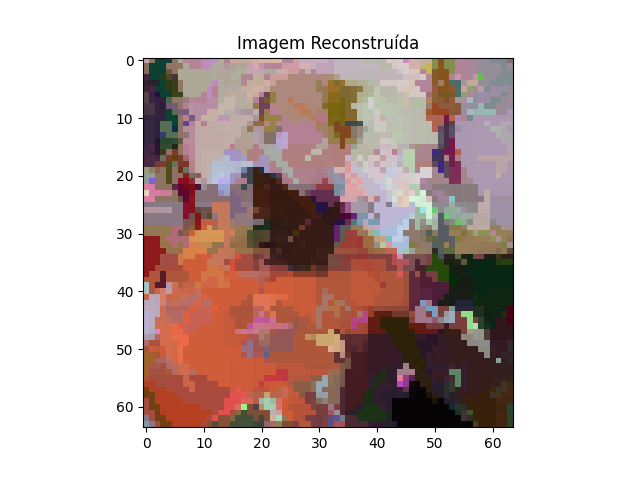
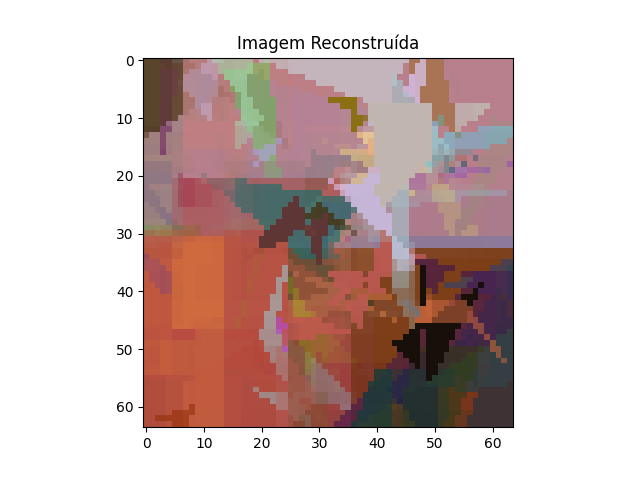
changed to flask API

diff --git a/generator.py b/generator.py
@@ -6,16 +6,8 @@ import random
 from PIL import ImageDraw
 from PIL import Image
 
-POPULATION_SIZE = 100
-NUM_GENERATIONS = 2001
-MUTATION_RATE = 0.1
-LEN = 64
-WID = 64
-IMAGE = Image.open("original.png")
-
-
-def create_population():
-    population = [create_random_image() for _ in range(POPULATION_SIZE)]
+def create_population(pop_size, width, height):
+    population = [create_random_image(width, height) for _ in range(pop_size)]
     return population
 
 
@@ -23,22 +15,22 @@ def rand_color():
     return "#" + ''.join([random.choice('0123456789ABCDEF') for _ in range(6)])
 
 
-def create_random_image():
+def create_random_image(width, height):
     """
     cria uma imagem com uma cor de fundo aleatória e adiciona alguns polígonos coloridos nela
     :return: PIL Image
     """
     iterations = random.randint(3, 6)
 
-    region = (LEN + WID) // 8
+    region = (width + height) // 8
 
-    img = Image.new("RGBA", (LEN, WID), rand_color())
+    img = Image.new("RGBA", (width, height), rand_color())
 
     for i in range(iterations):
         num_points = random.randint(3, 6)
 
-        region_x = random.randint(0, LEN)
-        region_y = random.randint(0, WID)
+        region_x = random.randint(0, width)
+        region_y = random.randint(0, height)
 
         xy = []
         for j in range(num_points):
@@ -51,17 +43,17 @@ def create_random_image():
     return img
 
 
-def get_fitness(individual):
+def get_fitness(individual, image):
     """Calcula a fitness baseado na diferença entre as cores de cada píxel da imagem.
     Calculo é feito usando Delta E, que traz uma precisão maior do que só o valor rgb puro
     Já que o delta E traz um valor de diferença baseado na percepção do olho humano e não dos valores da cor
     Ex: laranja e marrom são duas cores muito próximas em questão de valores mas muito diferentes ao olhar"""
-    fitness = np.mean(colour.difference.delta_e.delta_E_CIE1976(IMAGE, np.array(individual)))
+    fitness = np.mean(colour.difference.delta_e.delta_E_CIE1976(image, np.array(individual)))
     return fitness
 
 
 #Seleção por torneio
-def select_parents(population):
+def select_parents(population, image):
     indices = np.random.choice(len(population), 6)
     random_subset = [population[i] for i in indices]
 
@@ -70,22 +62,22 @@ def select_parents(population):
     for i in random_subset:
         if winner is None:
             winner = i
-        elif get_fitness(i) < get_fitness(winner):
+        elif get_fitness(i, image) < get_fitness(winner, image):
             winner = i
 
     return winner
 
-def crossover(parent1, parent2):
+def crossover(parent1, parent2, image, mutation_rate, width, height):
     """Faz um crossover pegando um número alpha aleatório e fundindo as duas imagens
     O alpha é aplicado como transparência das duas imagens"""
     alpha = random.random()
-    child = mutate(Image.blend(parent1, parent2, alpha))
-    fitness = get_fitness(child)
-    if fitness == min(get_fitness(parent1), get_fitness(parent2), fitness):
+    child = mutate(Image.blend(parent1, parent2, alpha), mutation_rate, width, height)
+    fitness = get_fitness(child, image)
+    if fitness == min(get_fitness(parent1, image), get_fitness(parent2, image), fitness):
         return child
     return None
 
-def crossover_2(parent1, parent2, horizontal_prob):
+def crossover_2(parent1, parent2, horizontal_prob, image, mutation_rate, width, height):
     """
 
     :param parent1: pai 1
@@ -98,23 +90,21 @@ def crossover_2(parent1, parent2, horizontal_prob):
 
     #os cortes criam um novo array marcado com 1s e 0s, sendo a parte que estiver marcada com 1s a parte que será usada
     #é uma mascara para saber qual parte da imagem vai ser usada
-    #corte horizontal
     if rand <= horizontal_prob:
 
-        split_point = random.randint(1, WID)
+        split_point = random.randint(1, width)
 
         first = np.vstack((
-            np.ones((split_point, LEN)),
-            np.zeros((WID - split_point, LEN))
+            np.ones((split_point, height)),
+            np.zeros((width - split_point, height))
         ))
 
-    #corte vertical
     else:
-        split_point = random.randint(1, LEN)
+        split_point = random.randint(1, height)
 
         first = np.hstack((
-            np.ones((WID, split_point)),
-            np.zeros((WID, LEN - split_point))
+            np.ones((width, split_point)),
+            np.zeros((width, height - split_point))
         ))
 
     #indica qual parte do outro pai vai ser usada, sendo todas as partes não usadas do pai 1
@@ -131,28 +121,28 @@ def crossover_2(parent1, parent2, horizontal_prob):
 
     child_array = np.add(half_chromo_1, half_chromo_2)
 
-    child = mutate(Image.fromarray(child_array.astype(np.uint8)))
+    child = mutate(Image.fromarray(child_array.astype(np.uint8)), mutation_rate, width, height)
 
-    fitness = get_fitness(child)
+    fitness = get_fitness(child, image)
     #joga fora o filho se ele não for mais apto que o pai. acaba convergindo a maior parte dos filhos
     #mas sem isso a melhoria entre gerações fica nula ou pode até reverter
     #taxa de mutação alta cuida do problema da convergência
-    if fitness == min(get_fitness(parent1), get_fitness(parent2), fitness):
+    if fitness == min(get_fitness(parent1, image), get_fitness(parent2, image), fitness):
         return child
 
     return None
 
 
-def mutate(img):
+def mutate(img, mutation_rate, width, height):
     chance = random.random()
-    if chance > MUTATION_RATE:
+    if chance > mutation_rate:
         return img
     iterations = random.randint(1, 1)
-    region = random.randint(1, (LEN + WID) // 4)
+    region = random.randint(1, (width + height) // 4)
     for i in range(iterations):
         num_points = random.randint(3, 6)
-        region_x = random.randint(0, LEN)
-        region_y = random.randint(0, WID)
+        region_x = random.randint(0, width)
+        region_y = random.randint(0, height)
 
         xy = []
         for j in range(num_points):
@@ -163,12 +153,16 @@ def mutate(img):
         img1.polygon(xy, fill=rand_color())
     return img
 
-
-def genetic_algorithm():
+def genetic_algorithm(pop_size, num_generations, mutation_rate, image):
+    if image.mode == 'RGB':
+        image = image.convert('RGBA')
+    
+    width, height = image.size
+    
     #gerar população
-    population = create_population()
+    population = create_population(pop_size, width, height)
 
-    for i in range(NUM_GENERATIONS):
+    for i in range(num_generations):
         new_population = []
 
         while len(new_population) < len(population):
@@ -179,19 +173,19 @@ def genetic_algorithm():
                 child = None
 
                 while child is None:
-                    parent_one = select_parents(population)
-                    parent_two = select_parents(population)
+                    parent_one = select_parents(population, image)
+                    parent_two = select_parents(population, image)
 
-                    child = crossover(parent_one, parent_two)
+                    child = crossover(parent_one, parent_two, image, mutation_rate, width, height)
 
             else:
                 child = None
 
                 while child is None:
-                    parent_one = select_parents(population)
-                    parent_two = select_parents(population)
+                    parent_one = select_parents(population, image)
+                    parent_two = select_parents(population, image)
 
-                    child = crossover_2(parent_one, parent_two, 0.5)
+                    child = crossover_2(parent_one, parent_two, 0.5, image, mutation_rate, width, height)
 
 
             new_population.append(child)
@@ -199,20 +193,24 @@ def genetic_algorithm():
         population = new_population
 
         #salva imagem a cada 100 gerações ou se for a última
-        if i % 50 == 0 or i == NUM_GENERATIONS - 1:
-            population.sort(key=lambda ind: get_fitness(ind))
+        if i % 50 == 0 or i == num_generations - 1:
+            population.sort(key=lambda ind: get_fitness(ind, image))
             fittest = population[0]
-            print("Most fit individual in epoch " + str(i) +
-                " has fitness: " + str(get_fitness(fittest)))
+            """ print("Most fit individual in epoch " + str(i) +
+                " has fitness: " + str(get_fitness(fittest, image))) """
 
-            fittest.save("generatedImages/fittest_" + str(i) + ".png")
+            """ fittest.save("generatedImages/fittest_" + str(i) + ".png") """
 
-    population.sort(key=lambda ind: get_fitness(ind))
+    population.sort(key=lambda ind: get_fitness(ind, image))
     fittest = population[0]
     return fittest
 
 if __name__ == "__main__":
-    reconstructed_image = genetic_algorithm()
+    pop_size = 100
+    num_generations = 100
+    mutation_rate = 0.1
+    image = Image.open("original.png")
+    reconstructed_image = genetic_algorithm(pop_size, num_generations, mutation_rate, image)
     plt.imshow(reconstructed_image)
     plt.title("Imagem Reconstruída")
     plt.savefig('reconstructed_image.png')

diff --git a/api.py b/api.py
@@ -1,0 +1,41 @@
+from flask import Flask, request, jsonify, send_file
+import os
+from PIL import Image
+import io
+import generator
+
+app = Flask(__name__)
+
+@app.route('/run-genetic-algorithm', methods=['POST'])
+def run_genetic_algorithm():
+    try:
+        # Get parameters from the request
+        data = request.form
+
+        pop_size = int(data.get('pop_size', 100))  # Default to 100 if not provided
+        num_generations = int(data.get('num_generations', 2001))  # Default to 2001
+        mutation_rate = float(data.get('mutation_rate', 0.1))  # Default to 0.1
+
+        # Get the uploaded image file
+        if 'image' not in request.files:
+            return jsonify({"error": "No image file provided"}), 400
+
+        image_file = request.files['image']
+        target_image = Image.open(image_file)
+
+        # Run the genetic algorithm with the provided parameters
+        reconstructed_image = generator.genetic_algorithm(pop_size, num_generations, mutation_rate, target_image)
+
+        # Save the result to a bytes buffer
+        output_buffer = io.BytesIO()
+        reconstructed_image.save(output_buffer, format="PNG")
+        output_buffer.seek(0)
+
+        # Return the generated image as a response
+        return send_file(output_buffer, mimetype='image/png')
+
+    except Exception as e:
+        return jsonify({"error": str(e)}), 500
+
+if __name__ == '__main__':
+    app.run(host='0.0.0.0', port=5000)
